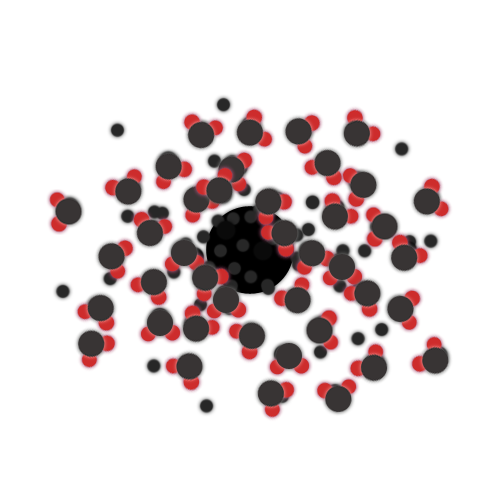
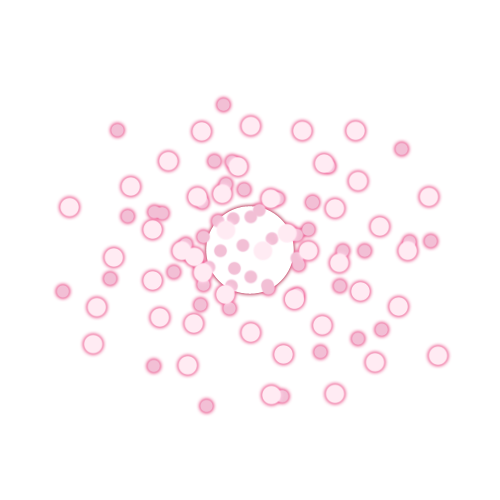
Updated Gradient Color Effect for first six levels

diff --git a/core/src/com/bms/chemtris/helpers/Storage.java b/core/src/com/bms/chemtris/helpers/Storage.java
@@ -15,6 +15,8 @@ import com.badlogic.gdx.utils.Array;
 import com.bms.chemtris.models.GameModel;
 import com.bms.chemtris.render.WireframeShader;
 
+import java.util.Random;
+
 /**
  * Class to store game pieces.
  */
@@ -35,6 +37,7 @@ public class Storage {
     public Array<ModelInstance> level_5_w;
 
     private static Environment environment; //rendering environment
+    public int cc_type;
 
     private int frame;
 
@@ -48,17 +51,19 @@ public class Storage {
     });
 
     //colors
-    private static Color dark = new Color(71/255f,10/255f,0f,1f);
-    private static Color lDark = new Color(122/255f,18/255f,0f,1f);
-    private static Color medium = new Color(161/255f,24/255f,0f,1f);
-    private static Color normal = new Color(200/255f,29/255f,0f,1f);
-    private static Color light = new Color(239/255f,35/255f,0f,1f);
+    private Color dark = new Color(255/255f,8/255f,0f,1f);
+    private Color lDark = new Color(255/255f,69/255f,0f,1f);
+    private Color medium = new Color(255/255f,127/255f,0f,1f);
+    private Color normal = new Color(255/255f,155/255f,0f,1f);
+    private Color light = new Color(255/255f,204/255f,0f,1f);
 
     //perspective camera
     private PerspectiveCamera camera;
 
     //collision matrix
     private static boolean [][][] matrix;
+
+    private static final Random rand = new Random();
 
 
     //constructor
@@ -82,6 +87,29 @@ public class Storage {
         environment = new Environment();
         environment.set(new ColorAttribute(ColorAttribute.AmbientLight, 0.4f, 0.4f, 0.4f, 1f));
         environment.add(new DirectionalLight().set(0.8f, 0.8f, 0.8f, -1f, -0.8f, -0.2f));
+
+        cc_type = rand.nextInt(3);
+
+        if(cc_type == 0){
+            dark = new Color(255/255f,8/255f,0f,1f);
+            lDark = new Color(255/255f,69/255f,0f,1f);
+            medium = new Color(255/255f,127/255f,0f,1f);
+            normal = new Color(255/255f,155/255f,0f,1f);
+            light = new Color(255/255f,204/255f,0f,1f);
+        }
+        else if(cc_type == 1){
+            dark = new Color(93/255f,78/255f,1f,1f);
+            lDark = new Color(82/255f,164/255f,1f,1f);
+            medium = new Color(0/255f,249/255f,1f,1f);
+            normal = new Color(80/255f,255/255f,127/255f,1f);
+            light = new Color(68/255f,255/255f,50/255f,1f);
+        }else{
+            dark = new Color(255/255f,245/255f,149/255f,1f);
+            lDark = new Color(255/255f,234/255f,110/255f,1f);
+            medium = new Color(255/255f,218/255f,130/255f,1f);
+            normal = new Color(255/255f,140/255f,140/255f,1f);
+            light = new Color(234/255f,107/255f,107/255f,1f);
+        }
     }
 
     public boolean add(GameModel model){

diff --git a/core/src/com/bms/chemtris/screen/LevelThree.java b/core/src/com/bms/chemtris/screen/LevelThree.java
@@ -111,7 +111,15 @@ public class LevelThree implements Screen {
 
         //make stages
         stage = new Stage();
-        particler = new ParticleRender(ParticleRender.red,stage);
+        int c;
+        if(storage.cc_type == 0){
+            c = ParticleRender.red;
+        }else if(storage.cc_type == 1){
+            c = ParticleRender.blue;
+        }else{
+            c = ParticleRender.yellow;
+        }
+        particler = new ParticleRender(c,stage);
         tutorialStage = new Stage();
 
         //make UI

diff --git a/core/src/com/bms/chemtris/screen/LevelFive.java b/core/src/com/bms/chemtris/screen/LevelFive.java
@@ -111,7 +111,15 @@ public class LevelFive implements Screen {
 
         //make stages
         stage = new Stage();
-        particler = new ParticleRender(ParticleRender.red,stage);
+        int c;
+        if(storage.cc_type == 0){
+            c = ParticleRender.red;
+        }else if(storage.cc_type == 1){
+            c = ParticleRender.blue;
+        }else{
+            c = ParticleRender.yellow;
+        }
+        particler = new ParticleRender(c,stage);
         tutorialStage = new Stage();
 
         //make UI

diff --git a/core/src/com/bms/chemtris/screen/LevelFour.java b/core/src/com/bms/chemtris/screen/LevelFour.java
@@ -111,7 +111,15 @@ public class LevelFour implements Screen {
 
         //make stages
         stage = new Stage();
-        particler = new ParticleRender(ParticleRender.red,stage);
+        int c;
+        if(storage.cc_type == 0){
+            c = ParticleRender.red;
+        }else if(storage.cc_type == 1){
+            c = ParticleRender.blue;
+        }else{
+            c = ParticleRender.yellow;
+        }
+        particler = new ParticleRender(c,stage);
         tutorialStage = new Stage();
 
         //make UI

diff --git a/core/src/com/bms/chemtris/screen/LevelOne.java b/core/src/com/bms/chemtris/screen/LevelOne.java
@@ -114,7 +114,15 @@ public class LevelOne implements Screen {
 
         //make stages
         stage = new Stage();
-        particler = new ParticleRender(ParticleRender.red,stage);
+        int c;
+        if(storage.cc_type == 0){
+            c = ParticleRender.red;
+        }else if(storage.cc_type == 1){
+            c = ParticleRender.blue;
+        }else{
+            c = ParticleRender.yellow;
+        }
+        particler = new ParticleRender(c,stage);
         tutorialStage = new Stage();
 
         //make UI

diff --git a/core/src/com/bms/chemtris/screen/LevelSix.java b/core/src/com/bms/chemtris/screen/LevelSix.java
@@ -111,7 +111,15 @@ public class LevelSix implements Screen {
 
         //make stages
         stage = new Stage();
-        particler = new ParticleRender(ParticleRender.red,stage);
+        int c;
+        if(storage.cc_type == 0){
+            c = ParticleRender.red;
+        }else if(storage.cc_type == 1){
+            c = ParticleRender.blue;
+        }else{
+            c = ParticleRender.yellow;
+        }
+        particler = new ParticleRender(c,stage);
         tutorialStage = new Stage();
 
         //make UI

diff --git a/core/src/com/bms/chemtris/screen/LevelTwo.java b/core/src/com/bms/chemtris/screen/LevelTwo.java
@@ -111,7 +111,15 @@ public class LevelTwo implements Screen {
 
         //make stages
         stage = new Stage();
-        particler = new ParticleRender(ParticleRender.red,stage);
+        int c;
+        if(storage.cc_type == 0){
+            c = ParticleRender.red;
+        }else if(storage.cc_type == 1){
+            c = ParticleRender.blue;
+        }else{
+            c = ParticleRender.yellow;
+        }
+        particler = new ParticleRender(c,stage);
         tutorialStage = new Stage();
 
         //make UI
